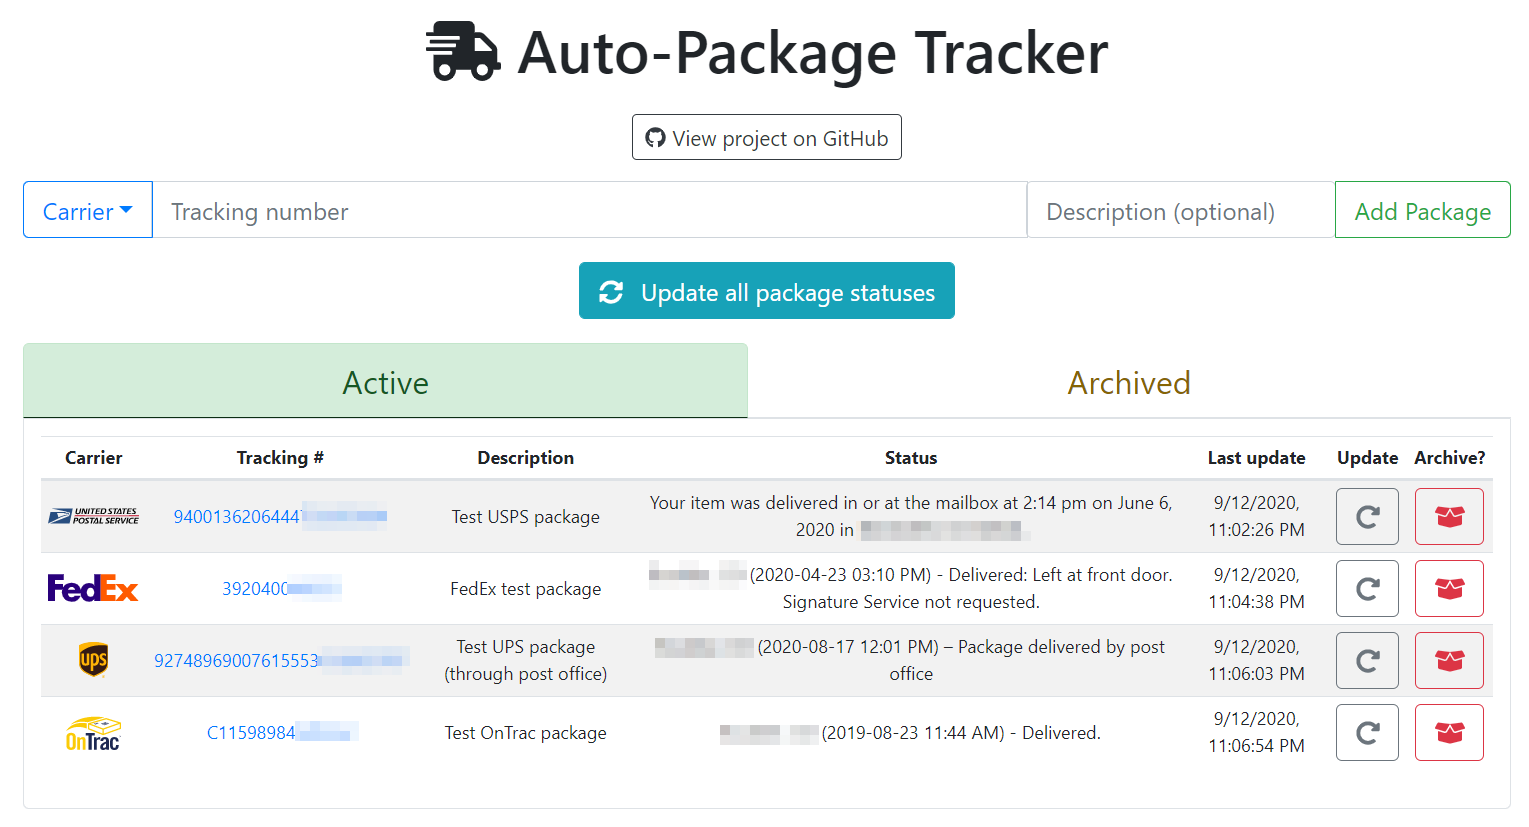
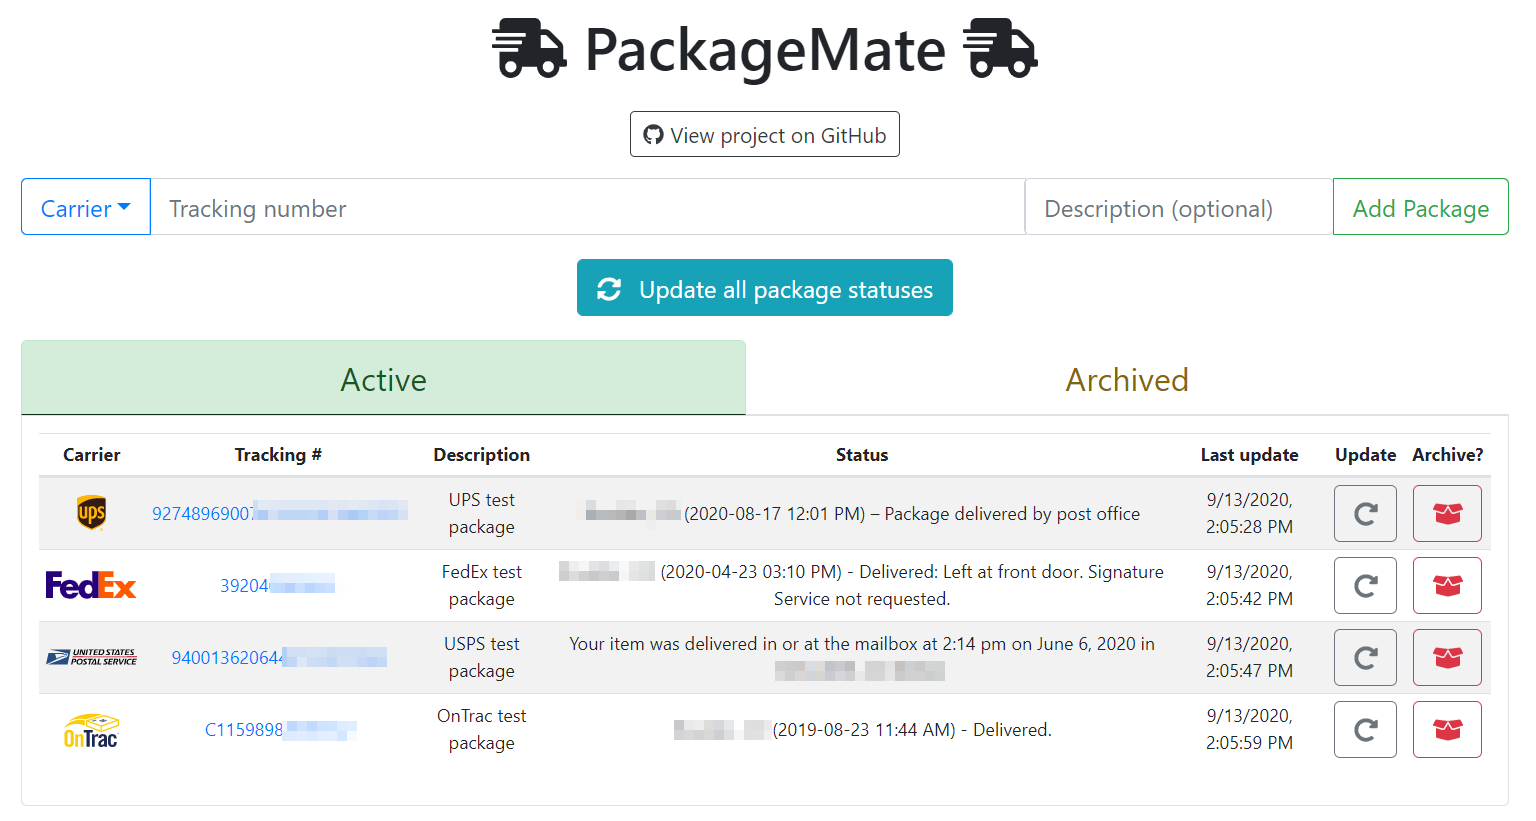
Update project name and README/demos

diff --git a/client/src/components/Package.js b/client/src/components/Package.js
@@ -114,7 +114,7 @@ class Package extends Component {
       <Container fluid className="p-3">
         <Row>
           <Col>
-            <h1 className="header"><FontAwesomeIcon icon={faShippingFast} /> Auto-Package Tracker</h1>
+            <h1 className="header"><FontAwesomeIcon icon={faShippingFast} /> PackageMate <FontAwesomeIcon icon={faShippingFast} /></h1>
           </Col>
         </Row>
         <Row>

diff --git a/README.md b/README.md
@@ -1,13 +1,13 @@
-# Self-hosted package tracking
-
 ![animated demo of the client application](img/demo.gif)
+<p align="center"><em>PackageMate: Self-hosted package tracking!</em></p>
 
 This is a simple app using MongoDB, Express.js, React, and Node to allow a user
 to create _package_ records and fetch their status from the carriers' APIs
 (or scraping, sometimes).
 
-**Note:** This app was made as a learning experience, so it certainly has some roughness
-around the edges, and I'm not responsible if it causes your package to burst into flames...
+**Note:** This app was made as a full-stack app learning experience, so it certainly has some 
+roughness around the edges, and I'm not responsible if it causes your packages to burst into 
+flames...
 
 It requires access to the carriers' API tools, which differs a bit for each carrier. The
 following links have more information on how to create accounts and get credentials.
@@ -29,7 +29,8 @@ UPS:
    developer kit signup page, but once you sign up, place the UPS "Access key" into `.env`
 
 Fedex: 
- - Becuase of issues with the API, Fedex package status is obtained by scraping the public website
+ - Becuase of issues with the API (all my attempts resulted in the API returning outdated
+   information), Fedex package status is obtained by scraping the public website
    (which is a little bit slower), so no API credentials are needed. 
    [Playwright](https://github.com/microsoft/playwright) is used for the scraping.
 
@@ -53,7 +54,7 @@ the browser.
 ### Clone or download the project using git:
 
 ```sh
-$ git clone https://github.com/jat255/package_tracker.git
+$ git clone https://github.com/jat255/PackageMate.git
 $ cd package_tracker
 ```
 
@@ -141,3 +142,13 @@ To stop tracking a package, click the red
 "archive" button for that package. The 
 package will be moved to the "Archived" tab,
 and will no longer be included in any updates.
+
+## How to contribute?
+
+Pull requests and feature additions are always welcome! In particular, 
+PackageMate only supports four carriers, currently (the ones that I
+receive packages through most often). If there's another carrier
+that you would like to support, it should be added to the database
+model in `models/package.js` (the `carrier` enum), the update function
+in `routes/api.js`, and then in `3rd-party/trackers.js` and 
+`3rd-party/parsers.js`.
